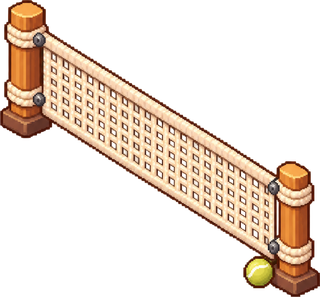
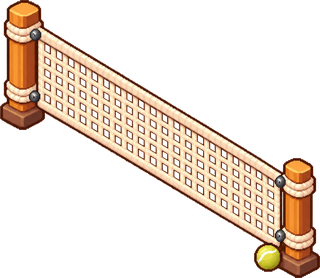
테니스 네트 그림 교체, 운동장 트랙을 4x4 바닥으로(위에 다른 것을 놓을 수 있음)
Claude-Session: https://claude.ai/code/session_012JmrYrYAdyz2vxXVVyUJFg

Changed region(s): [[0.0, 0.0, 1.0, 1.0]]

diff --git a/Assets/ZooZooClub/Scripts/Client/GameHud.cs b/Assets/ZooZooClub/Scripts/Client/GameHud.cs
@@ -1105,7 +1105,8 @@ namespace ZooZooClub.Client
             var shown = new List<PlaceableDef>();
             foreach (var def in game.Catalog.placeables)
             {
-                int tab = def.kind == PlaceableKind.Decor ? 1
+                // 묶음(구름·운동 등)이 있는 것은 바닥이라도 장식 탭의 그 묶음에 보여 준다(예: 운동장 트랙).
+                int tab = def.kind == PlaceableKind.Decor || !string.IsNullOrEmpty(def.theme) ? 1
                     : def.kind == PlaceableKind.Defense ? 2
                     : def.kind == PlaceableKind.Floor ? 3 : 0;
                 if (tab != buildTab) continue;
@@ -1217,7 +1218,8 @@ namespace ZooZooClub.Client
         {
             foreach (var def in game.Catalog.placeables)
             {
-                if (def.kind == PlaceableKind.Decor && (def.theme ?? "") == theme && game.IsOnSale(def)) return true;
+                bool themed = def.kind == PlaceableKind.Decor || !string.IsNullOrEmpty(def.theme);
+                if (themed && (def.theme ?? "") == theme && game.IsOnSale(def)) return true;
             }
             return false;
         }

diff --git a/Assets/ZooZooClub/Scripts/Client/WorldView.cs b/Assets/ZooZooClub/Scripts/Client/WorldView.cs
@@ -855,7 +855,18 @@ namespace ZooZooClub.Client
             else if (isFloor) view.baseColor = plotArt != null ? Color.white : PlaceholderArt.ColorFor(def.id);
             else view.baseColor = Color.clear;
 
-            for (int j = 0; j < cellsDeep; j++)
+            // 여러 칸짜리 바닥(예: 운동장 트랙)은 칸마다 깔지 않고 그림 한 장을 땅 전체에 깐다(방향도 돌린다).
+            bool bigFloor = isFloor && def.width * def.height > 1 && ArtLibrary.Get(def.id) != null;
+            if (bigFloor)
+            {
+                var whole = NewSprite("Base", view.root.transform, null);
+                float wholeLift, wholeTop;
+                FitObjectArt(whole, def, null, obj.rotation, out wholeLift, out wholeTop);
+                whole.color = view.baseColor;
+                view.bases.Add(whole);
+            }
+
+            for (int j = 0; j < (bigFloor ? 0 : cellsDeep); j++)
             {
                 for (int i = 0; i < cellsWide; i++)
                 {
